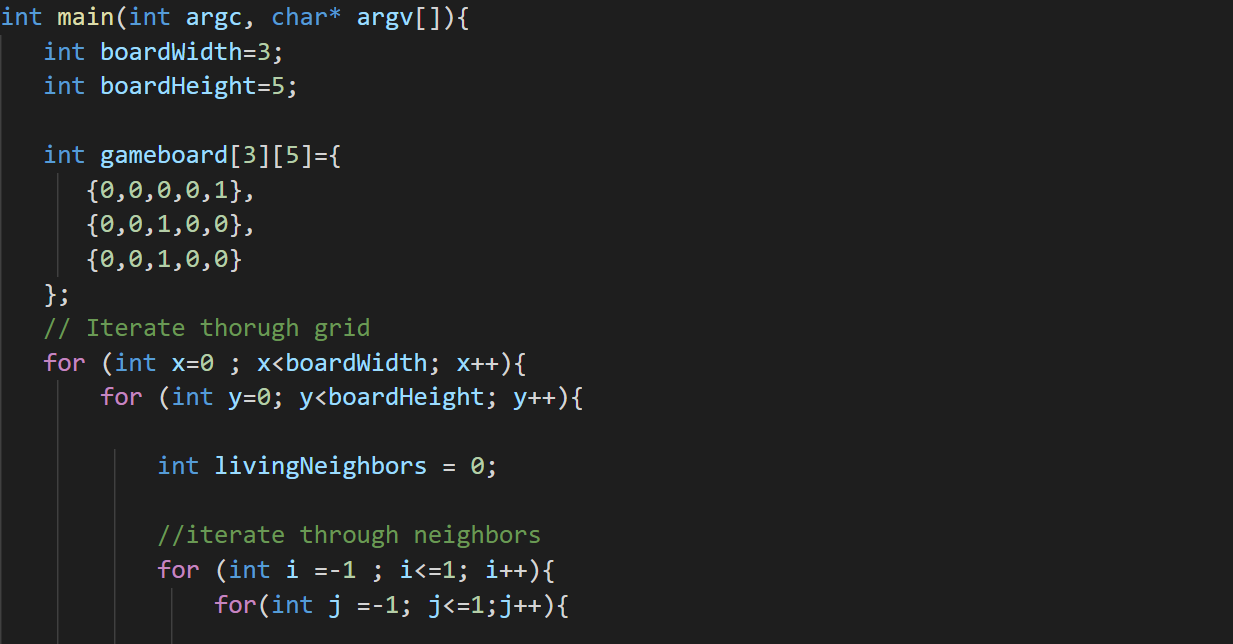
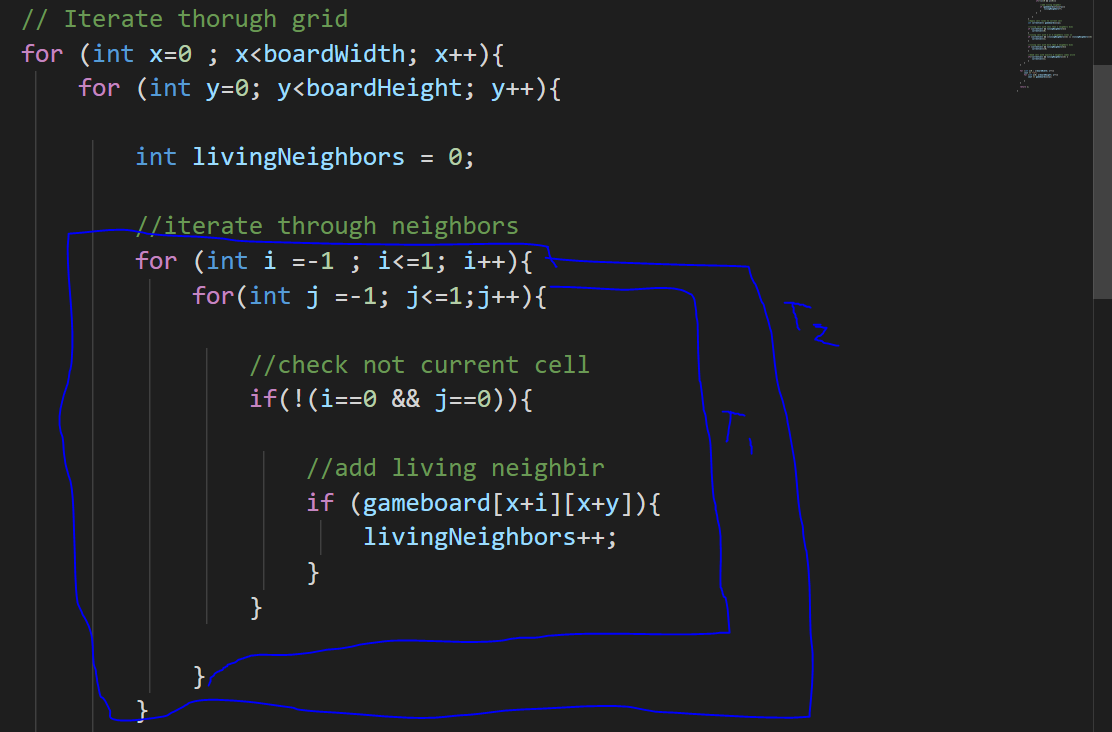
pcam anandido

diff --git a/pcam.md b/pcam.md
@@ -1,10 +1,28 @@
 # **PCAM Game Of Life Paralelo**
 
-## Partition
-<img src="pcamimages\Capture.PNG" alt="My cool logo"/>
+## **Partition y Communication**
+Para nuestras primeras dos tareas podemos identificar dos ciclos interiores. El primer ciclo T1 corre 3 x ancho del tablero x altura del tablero. La segunda tarea T2 ancho del tablero x altura tablero
+<img src="pcamimages\Capture.PNG" alt="Dos primeros loop internos"/>
 
-## Communication
+Nuestra T3 es un ciclo que se ejecuta las veces del ancho del tablero de juego osea x veces. Nuestra T4 se ejecuta 1 vez por cada generacion de celula , en este caso el codigo solo se haciendo una generacion de celula , por lo tanto se ejecuta una sola vez
 
-## Agglomeration
+<img src="pcamimages\Capture2.PNG" alt="Dos loops externos"/>
 
-## Mapping
+Por ultimo tenemos a T0 
+<img src="pcamimages\Capture3.PNG" alt="Dos loops externos"/>
+
+### **Resumen de Tareas y cuantas veces se ejecuta**
+T1 = corre 3 x ancho del tablero x altura del tablero
+T2 = ancho del tablero x altura tablero
+T3 = ancho del tablero
+T4 = 1 vez
+### **Arbol Particion Funcional**
+<img src="pcamimages\diagramas\Diapositiva1.PNG" alt="Dos loops externos"/>
+
+### **Arbol Particion Datos**
+<img src="pcamimages\diagramas\Diapositiva2.PNG" alt="Dos loops externos"/>
+
+
+## **Agglomeration**
+
+## **Mapping**
